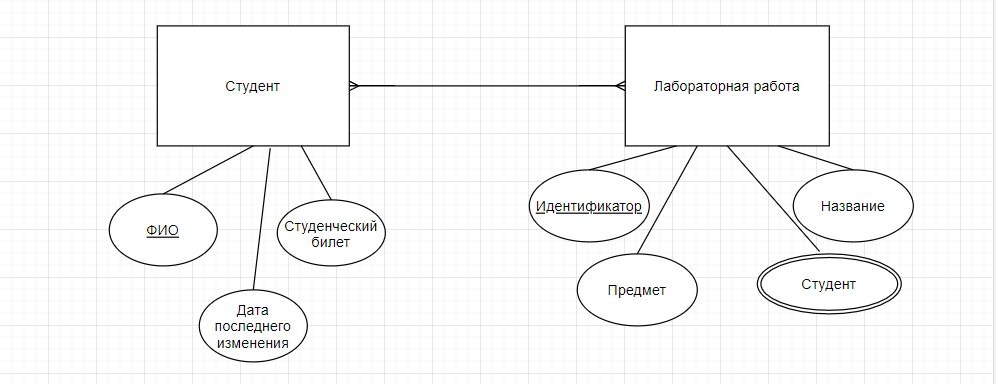
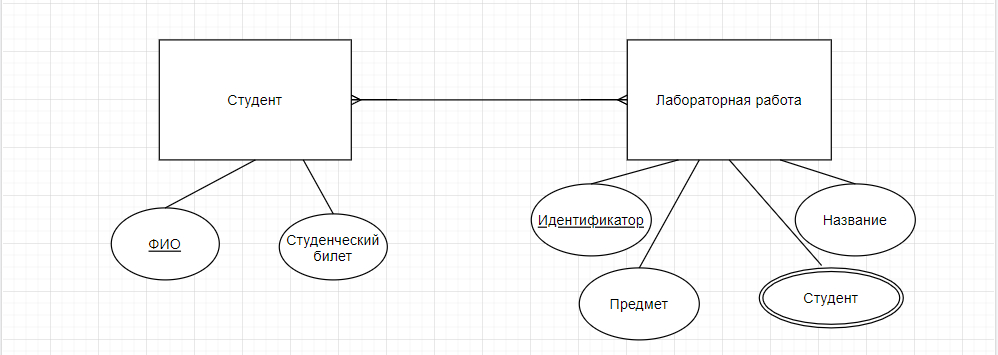
Modify readme and Diagram picture

diff --git a/README.md b/README.md
@@ -3,6 +3,11 @@
 В качестве предметной области выбрали хранение данных, об студентах и лабораторных работах, выполненых ими. Правая таблица включает в себя ID лабораторной, который генерируется автоматически, название лабораторной, дисциплины и имя студента, который выполнил работу. Левая таблица состоит из двух столбцов: имени студента, а также номера его студенческого билета. 
 
 ![Диаграмма "сущность-связь"](Diagram.png)
+
+База данных находится в третьей нормальной форме:
+ - Все атрибуты являются простыми, домены содержат скалярные значения. (1 НФ)
+ - База данных находится в 1 НФ и каждый не ключевой атрибут неприводимо зависит от Первичного Ключа. (2 НФ)
+ - База данных находится в 2 НФ и каждый не ключевой атрибут нетранзитивно зависит от первичного ключа. (3 НФ)
 ### 2.    Реализовать реляционную БД для своей предметной области (все таблицы должны быть не менее чем в третьей нормальной форме)
 
 - DONE.
